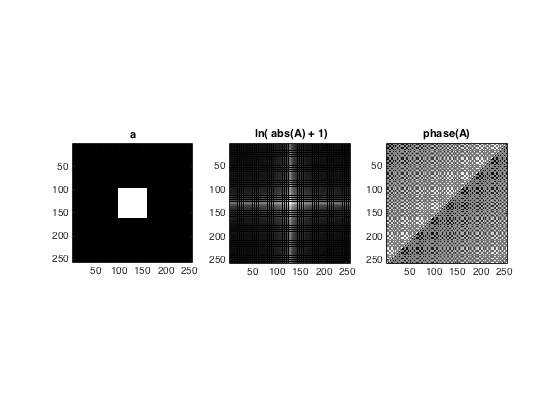
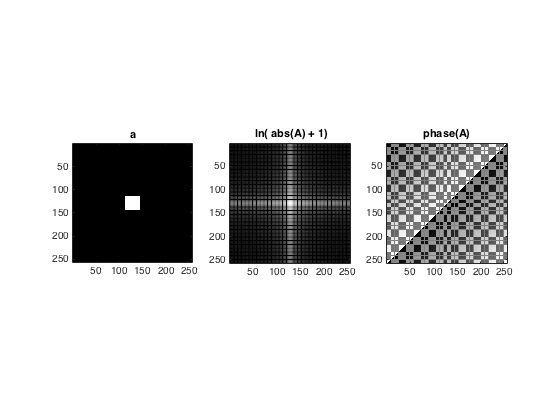
updated hwk

Changed region(s): [[0.6679, 0.3405, 0.9107, 0.65], [0.425, 0.3405, 0.6375, 0.619], [0.2125, 0.4333, 0.2732, 0.5262]]

diff --git a/homework/hw1/html/MR_hw1_2.html b/homework/hw1/html/MR_hw1_2.html
@@ -6,7 +6,7 @@
    <!--
 This HTML was auto-generated from MATLAB code.
 To make changes, update the MATLAB code and republish this document.
-      --><title>MR_hw1_2</title><meta name="generator" content="MATLAB 8.5"><link rel="schema.DC" href="http://purl.org/dc/elements/1.1/"><meta name="DC.date" content="2016-02-10"><meta name="DC.source" content="MR_hw1_2.m"><style type="text/css">
+      --><title>MR_hw1_2</title><meta name="generator" content="MATLAB 8.5"><link rel="schema.DC" href="http://purl.org/dc/elements/1.1/"><meta name="DC.date" content="2016-02-11"><meta name="DC.source" content="MR_hw1_2.m"><style type="text/css">
 html,body,div,span,applet,object,iframe,h1,h2,h3,h4,h5,h6,p,blockquote,pre,a,abbr,acronym,address,big,cite,code,del,dfn,em,font,img,ins,kbd,q,s,samp,small,strike,strong,sub,sup,tt,var,b,u,i,center,dl,dt,dd,ol,ul,li,fieldset,form,label,legend,table,caption,tbody,tfoot,thead,tr,th,td{margin:0;padding:0;border:0;outline:0;font-size:100%;vertical-align:baseline;background:transparent}body{line-height:1}ol,ul{list-style:none}blockquote,q{quotes:none}blockquote:before,blockquote:after,q:before,q:after{content:'';content:none}:focus{outine:0}ins{text-decoration:none}del{text-decoration:line-through}table{border-collapse:collapse;border-spacing:0}
 
 html { min-height:100%; margin-bottom:1px; }
@@ -68,7 +68,7 @@ table td { padding:7px 5px; text-align:left; vertical-align:top; border:1px soli
 
   </style></head><body><div class="content"><h2>Contents</h2><div><ul><li><a href="#1">box</a></li><li><a href="#2">circle</a></li><li><a href="#3">hollow box</a></li><li><a href="#4">lines</a></li><li><a href="#5">dots</a></li><li><a href="#6">checkerboard</a></li></ul></div><h2>box<a name="1"></a></h2><pre class="codeinput">figure
 a = zeros(256,256);
-a(size(a,1)*3/8+1 : size(a,1)*5/8, size(a,2)*3/8+1 : size(a,2)*5/8) = 1;
+a(size(a,1)*3.5/8+1 : size(a,1)*4.5/8, size(a,2)*3.5/8+1 : size(a,2)*4.5/8) = 1;
 subplot(1,3,1)
 imagesc(a)
 colormap(gray); axis <span class="string">image</span>
@@ -192,7 +192,7 @@ title(<span class="string">' phase(F) '</span>);
 %% box
 figure
 a = zeros(256,256);
-a(size(a,1)*3/8+1 : size(a,1)*5/8, size(a,2)*3/8+1 : size(a,2)*5/8) = 1;
+a(size(a,1)*3.5/8+1 : size(a,1)*4.5/8, size(a,2)*3.5/8+1 : size(a,2)*4.5/8) = 1;
 subplot(1,3,1)
 imagesc(a)
 colormap(gray); axis image

diff --git a/homework/hw1/html/MR_hw1_3.html b/homework/hw1/html/MR_hw1_3.html
@@ -6,7 +6,7 @@
    <!--
 This HTML was auto-generated from MATLAB code.
 To make changes, update the MATLAB code and republish this document.
-      --><title>MR_hw1_3</title><meta name="generator" content="MATLAB 8.5"><link rel="schema.DC" href="http://purl.org/dc/elements/1.1/"><meta name="DC.date" content="2016-02-10"><meta name="DC.source" content="MR_hw1_3.m"><style type="text/css">
+      --><title>MR_hw1_3</title><meta name="generator" content="MATLAB 8.5"><link rel="schema.DC" href="http://purl.org/dc/elements/1.1/"><meta name="DC.date" content="2016-02-11"><meta name="DC.source" content="MR_hw1_3.m"><style type="text/css">
 html,body,div,span,applet,object,iframe,h1,h2,h3,h4,h5,h6,p,blockquote,pre,a,abbr,acronym,address,big,cite,code,del,dfn,em,font,img,ins,kbd,q,s,samp,small,strike,strong,sub,sup,tt,var,b,u,i,center,dl,dt,dd,ol,ul,li,fieldset,form,label,legend,table,caption,tbody,tfoot,thead,tr,th,td{margin:0;padding:0;border:0;outline:0;font-size:100%;vertical-align:baseline;background:transparent}body{line-height:1}ol,ul{list-style:none}blockquote,q{quotes:none}blockquote:before,blockquote:after,q:before,q:after{content:'';content:none}:focus{outine:0}ins{text-decoration:none}del{text-decoration:line-through}table{border-collapse:collapse;border-spacing:0}
 
 html { min-height:100%; margin-bottom:1px; }

diff --git a/homework/hw1/MR_hw1_2.m b/homework/hw1/MR_hw1_2.m
@@ -1,7 +1,7 @@
 %% box
 figure
 a = zeros(256,256);
-a(size(a,1)*3/8+1 : size(a,1)*5/8, size(a,2)*3/8+1 : size(a,2)*5/8) = 1;
+a(size(a,1)*3.5/8+1 : size(a,1)*4.5/8, size(a,2)*3.5/8+1 : size(a,2)*4.5/8) = 1;
 subplot(1,3,1)
 imagesc(a)
 colormap(gray); axis image
